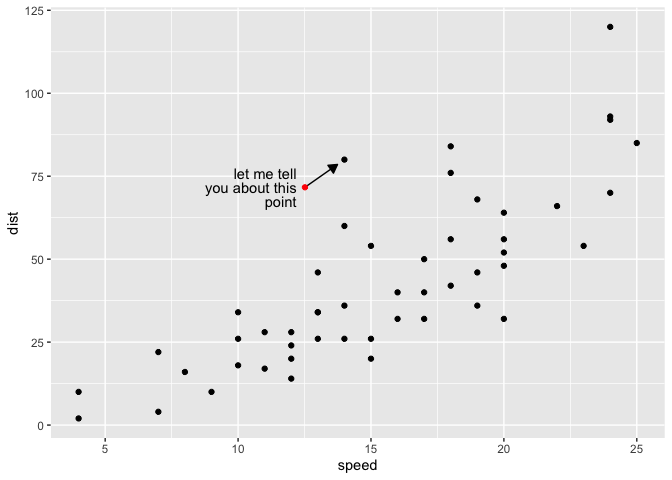
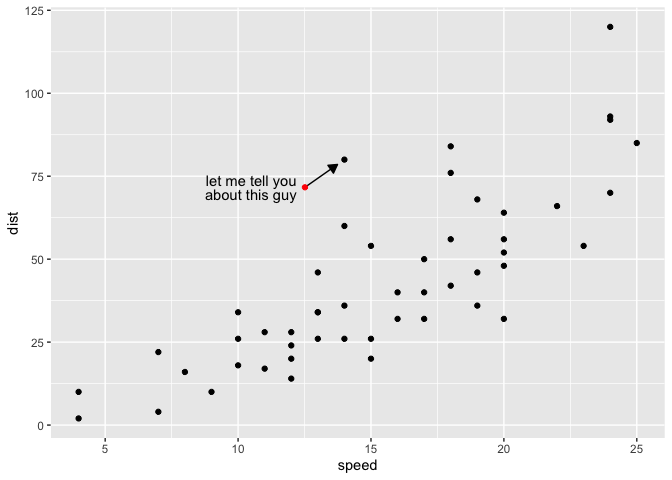
some more examples/test showing this isn't generally working. Not sure why

Changed region(s): [[0.2812, 0.3438, 0.4375, 0.4375]]

diff --git a/README.md b/README.md
@@ -200,7 +200,7 @@ ggplot(cars) +
         position = "identity",  
         # data = cars[23,],
         params = list(which_index = 23, 
-                      label = "let me tell you about this point" |> str_wrap(15),
+                      label = "let me tell you about this guy" |> str_wrap(15),
                       alpha = 0,
                       lineheight = .8,
                       label.size = 0,
@@ -265,6 +265,217 @@ geom_labellink <- function(  mapping = NULL,
 }
 ```
 
+``` r
+gapminder::gapminder |> 
+  filter(year == 2002) |>
+  ggplot() + 
+  aes(x = gdpPercap, y = lifeExp, id = country) + 
+  geom_point(color = "darkgrey") + 
+  geom_labellink(which_id = "Chile",
+                             label_direction = 45) + 
+  geom_labellink(which_id = "Brazil",
+                             label_direction = -65,
+                             label = "Brazil is a pretty\n interesting case")
+#> Warning in geom_labellink(which_id = "Brazil", label_direction = -65, label =
+#> "Brazil is a pretty\n interesting case"): Ignoring unknown parameters: `label`
+```
+
+![](README_files/figure-gfm/unnamed-chunk-7-1.png)<!-- -->
+
+``` r
+
+last_plot() + 
+  scale_x_log10()
+```
+
+![](README_files/figure-gfm/unnamed-chunk-7-2.png)<!-- -->
+
+``` r
+
+mtcars |>
+  rownames_to_column() |>
+  mutate(rowname = factor(rowname)) |>
+  head() |>
+  ggplot2::remove_missing() |>
+  ggplot() + 
+  aes(x = wt, y = mpg, id = rowname) |>
+  geom_point() + 
+  geom_labellink(which_id = "Mazda RX4",
+                 label_direction = 45,
+                 label = "hello")
+#> Warning in geom_point(aes(x = wt, y = mpg, id = rowname)): Ignoring unknown
+#> aesthetics: id
+#> Warning in geom_labellink(which_id = "Mazda RX4", label_direction = 45, :
+#> Ignoring unknown parameters: `label`
+#> Warning in mean.default(data$x): argument is not numeric or logical: returning
+#> NA
+#> Warning in mean.default(data$y): argument is not numeric or logical: returning
+#> NA
+#> Warning in min(x, na.rm = na.rm): no non-missing arguments to min; returning
+#> Inf
+#> Warning in max(x, na.rm = na.rm): no non-missing arguments to max; returning
+#> -Inf
+#> Warning in min(x, na.rm = na.rm): no non-missing arguments to min; returning
+#> Inf
+#> Warning in max(x, na.rm = na.rm): no non-missing arguments to max; returning
+#> -Inf
+#> Warning: Computation failed in `labellink()`.
+#> Caused by error in `dplyr::mutate()`:
+#> ℹ In argument: `y = y + ypush`.
+#> Caused by error:
+#> ! object 'y' not found
+#> Warning in mean.default(data$x): argument is not numeric or logical: returning
+#> NA
+#> Warning in mean.default(data$y): argument is not numeric or logical: returning
+#> NA
+#> Warning in min(x, na.rm = na.rm): no non-missing arguments to min; returning
+#> Inf
+#> Warning in max(x, na.rm = na.rm): no non-missing arguments to max; returning
+#> -Inf
+#> Warning in min(x, na.rm = na.rm): no non-missing arguments to min; returning
+#> Inf
+#> Warning in max(x, na.rm = na.rm): no non-missing arguments to max; returning
+#> -Inf
+#> Warning: Computation failed in `labellink()`.
+#> Caused by error in `dplyr::mutate()`:
+#> ℹ In argument: `y = y + ypush`.
+#> Caused by error:
+#> ! object 'y' not found
+```
+
+![](README_files/figure-gfm/unnamed-chunk-7-3.png)<!-- -->
+
+``` r
+
+mtcars |>
+  rownames_to_column() |>
+  mutate(rowname = factor(rowname)) |>
+  select(x = wt, y = mpg, id = rowname) |>
+  compute_labellink(which_id = "Mazda RX4")
+#>          x       y        id default_label     xend    yend hjust vjust
+#> 1 2.343451 19.3383 Mazda RX4     Mazda RX4 2.571604 20.7092  TRUE   0.5
+
+
+gapminder::gapminder |> 
+  filter(year == 2002) |>
+  select(x = gdpPercap, y = lifeExp, id = country) |>
+  compute_labellink(which_id = "Chile")
+#> # A tibble: 1 × 8
+#>       x     y id    default_label   xend  yend hjust vjust
+#>   <dbl> <dbl> <fct> <fct>          <dbl> <dbl> <lgl> <dbl>
+#> 1 7636.  74.8 Chile Chile         10229.  77.3 TRUE    0.5
+```
+
+``` r
+nhl_player_births <- readr::read_csv('https://raw.githubusercontent.com/rfordatascience/tidytuesday/master/data/2024/2024-01-09/nhl_player_births.csv')
+#> Rows: 8474 Columns: 9
+#> ── Column specification ────────────────────────────────────────────────────────
+#> Delimiter: ","
+#> chr  (5): first_name, last_name, birth_city, birth_country, birth_state_prov...
+#> dbl  (3): player_id, birth_year, birth_month
+#> date (1): birth_date
+#> 
+#> ℹ Use `spec()` to retrieve the full column specification for this data.
+#> ℹ Specify the column types or set `show_col_types = FALSE` to quiet this message.
+
+
+set.seed(1245)
+nhl_player_births |> 
+  sample_frac(.1) |>
+  ggplot2::remove_missing() |>
+  mutate(birth_date_2020 = birth_date %>% str_replace("....", "2000") %>% as_date()) |>
+  mutate(first_last = paste(first_name, last_name)) |>
+  ggplot() + 
+  aes(x = birth_month, 
+      y = birth_year,
+      id = first_last) |>
+  geom_point() + 
+  geom_labellink(which_id = "Donald Brashear")
+#> Warning: Removed 166 rows containing missing values or values outside the scale
+#> range.
+#> Warning in geom_point(aes(x = birth_month, y = birth_year, id = first_last)):
+#> Ignoring unknown aesthetics: id
+#> Warning in mean.default(data$x): argument is not numeric or logical: returning
+#> NA
+#> Warning in mean.default(data$y): argument is not numeric or logical: returning
+#> NA
+#> Warning in min(x, na.rm = na.rm): no non-missing arguments to min; returning
+#> Inf
+#> Warning in max(x, na.rm = na.rm): no non-missing arguments to max; returning
+#> -Inf
+#> Warning in min(x, na.rm = na.rm): no non-missing arguments to min; returning
+#> Inf
+#> Warning in max(x, na.rm = na.rm): no non-missing arguments to max; returning
+#> -Inf
+#> Warning: Computation failed in `labellink()`.
+#> Caused by error in `dplyr::mutate()`:
+#> ℹ In argument: `y = y + ypush`.
+#> Caused by error:
+#> ! object 'y' not found
+#> Warning in mean.default(data$x): argument is not numeric or logical: returning
+#> NA
+#> Warning in mean.default(data$y): argument is not numeric or logical: returning
+#> NA
+#> Warning in min(x, na.rm = na.rm): no non-missing arguments to min; returning
+#> Inf
+#> Warning in max(x, na.rm = na.rm): no non-missing arguments to max; returning
+#> -Inf
+#> Warning in min(x, na.rm = na.rm): no non-missing arguments to min; returning
+#> Inf
+#> Warning in max(x, na.rm = na.rm): no non-missing arguments to max; returning
+#> -Inf
+#> Warning: Computation failed in `labellink()`.
+#> Caused by error in `dplyr::mutate()`:
+#> ℹ In argument: `y = y + ypush`.
+#> Caused by error:
+#> ! object 'y' not found
+```
+
+![](README_files/figure-gfm/unnamed-chunk-8-1.png)<!-- -->
+
+``` r
+StatSum$compute_panel
+#> <ggproto method>
+#>   <Wrapper function>
+#>     function (...) 
+#> compute_panel(...)
+#> 
+#>   <Inner function (f)>
+#>     function (data, scales) 
+#> {
+#>     if (is.null(data$weight)) 
+#>         data$weight <- 1
+#>     group_by <- setdiff(intersect(names(data), ggplot_global$all_aesthetics), 
+#>         "weight")
+#>     counts <- count(data, group_by, wt_var = "weight")
+#>     counts <- rename(counts, c(freq = "n"))
+#>     counts$prop <- stats::ave(counts$n, counts$group, FUN = prop.table)
+#>     counts
+#> }
+  
+
+nhl_player_births |> 
+  mutate(birth_date2020 = str_replace(birth_date, "....", "2020") %>% as.Date()) |>
+  filter(birth_year >= 1970, birth_year <= 2000) |>
+  ggplot() + 
+  aes(x = month(birth_date, label = T), 
+      y = year(birth_date),
+      size = NULL) + 
+  layer(stat = StatSum, geom = GeomTile, position = "identity") + 
+  aes(fill = after_stat(n)) +
+  aes(label = after_stat(n)) +
+  layer(stat = StatSum, geom = GeomText, position = "identity",
+        params = list(color = "gray")) + 
+  scale_fill_viridis_c()
+#> Warning: Using `size` aesthetic for lines was deprecated in ggplot2 3.4.0.
+#> ℹ Please use `linewidth` instead.
+#> This warning is displayed once every 8 hours.
+#> Call `lifecycle::last_lifecycle_warnings()` to see where this warning was
+#> generated.
+```
+
+![](README_files/figure-gfm/unnamed-chunk-9-1.png)<!-- -->
+
 # Part II. Packaging and documentation 🚧 ✅
 
 ## Phase 1. Minimal working package
@@ -315,7 +526,7 @@ gapminder::gapminder |>
 #> -65, : Ignoring unknown parameters: `label`
 ```
 
-![](README_files/figure-gfm/unnamed-chunk-8-1.png)<!-- -->
+![](README_files/figure-gfm/unnamed-chunk-11-1.png)<!-- -->
 
 ``` r
 
@@ -323,7 +534,7 @@ last_plot() +
   scale_x_log10()
 ```
 
-![](README_files/figure-gfm/unnamed-chunk-8-2.png)<!-- -->
+![](README_files/figure-gfm/unnamed-chunk-11-2.png)<!-- -->
 
 ## Phase 3: Settling and testing 🚧 ✅
 
@@ -415,10 +626,19 @@ fs::dir_tree(recurse = T)
 #> ├── README.md
 #> ├── README_files
 #> │   └── figure-gfm
+#> │       ├── unnamed-chunk-10-1.png
+#> │       ├── unnamed-chunk-10-2.png
+#> │       ├── unnamed-chunk-11-1.png
+#> │       ├── unnamed-chunk-11-2.png
 #> │       ├── unnamed-chunk-5-1.png
 #> │       ├── unnamed-chunk-5-2.png
+#> │       ├── unnamed-chunk-7-1.png
+#> │       ├── unnamed-chunk-7-2.png
+#> │       ├── unnamed-chunk-7-3.png
 #> │       ├── unnamed-chunk-8-1.png
-#> │       └── unnamed-chunk-8-2.png
+#> │       ├── unnamed-chunk-8-2.png
+#> │       ├── unnamed-chunk-9-1.png
+#> │       └── unnamed-chunk-9-2.png
 #> ├── ggcallout.Rproj
 #> ├── man
 #> └── readme2pkg.template.Rproj
